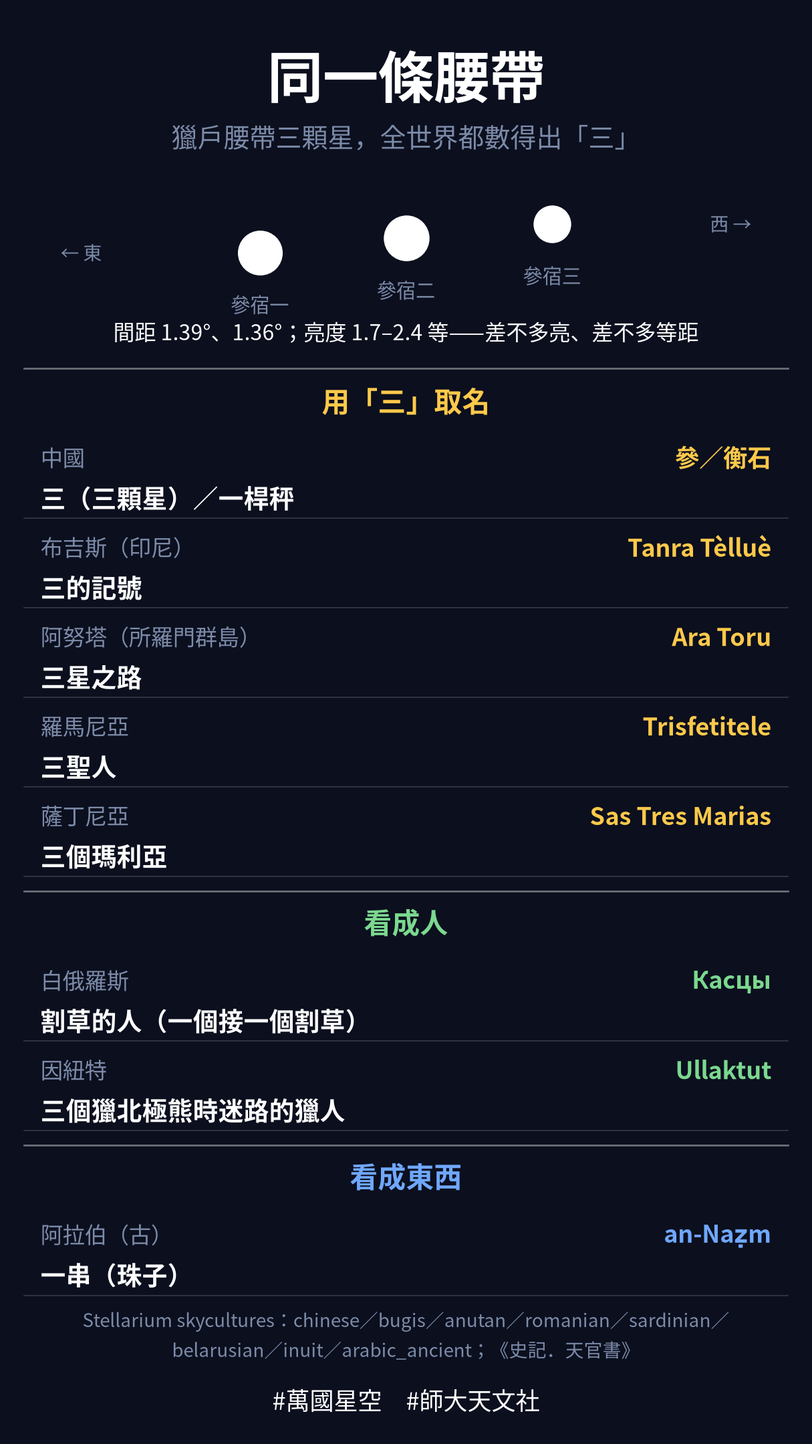
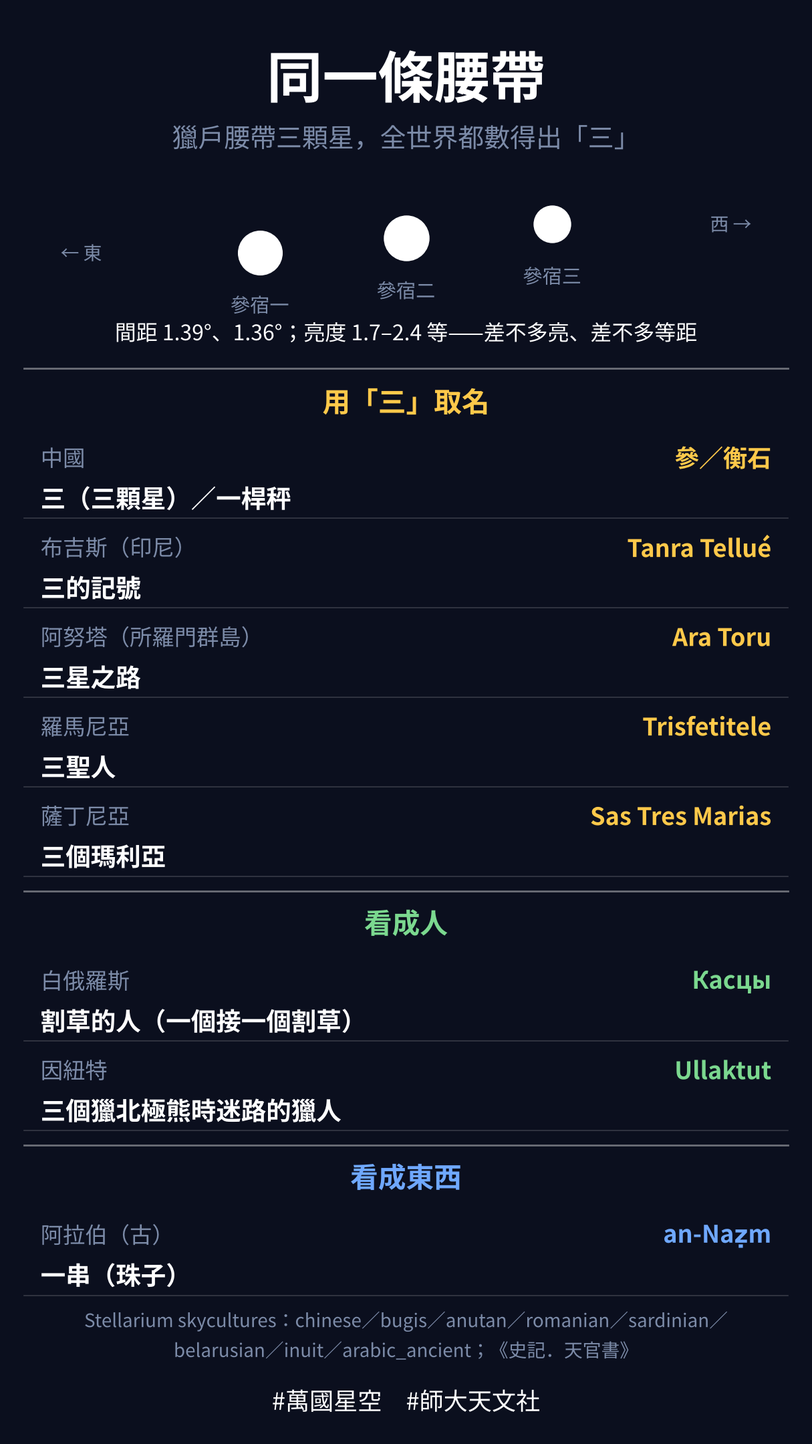
執行節目表修改建議（一）：標題 12、鉤子 21、A-32～X-07 排程重排、A-12 布吉斯拼法
- 節目表：12 集改標題、21 集改鉤子、A-24／A-25 素材名、A-31 備註；28 集狀態註明已更新
- 排程：Matariki 對上 6/25 國定假日，同時讓現代星座上下集相鄰——
  A-34 6/4、A-35 6/11、A-36 6/18、A-33 6/25、X-07 7/2；七集的承接、首尾預告、EP 編號、Caption 同步
  （日期改了的五集加註：星空對時 v1 時重算）
- A-22、A-31 檔名與標題改新名；鄰集承接與預告的舊標題一併更新
- A-12：Tanra Tèlluè → Tanra Tellué（Ammarell），逐字稿、標籤表、腳本、C-A12-05 圖卡重出

Claude-Session: https://claude.ai/code/session_01StZzE6tWpXcy8oYxpE6GNa

diff --git a/02_製作流程SOP/make_a12_v4.py b/02_製作流程SOP/make_a12_v4.py
@@ -543,7 +543,7 @@ def build():
                                                  來源備註="台灣通行星名"))
     json.dump({"ep": EP, "label_sets": [{"name": n, "items": it} for it, n in label_sets],
                "terms": terms,
-               "cross": [dict(原文="Tanra Tèlluè", 中譯="三的記號（布吉斯：獵戶腰帶）", 英文="Sign of Three",
+               "cross": [dict(原文="Tanra Tellué", 中譯="三的記號（布吉斯：獵戶腰帶）", 英文="Sign of Three",
                               顏色="white"),
                          dict(原文="Ara Toru", 中譯="三星之路（阿努塔）", 英文="Path of Three", 顏色="white"),
                          dict(原文="Trisfetitele", 中譯="三聖人（羅馬尼亞）", 英文="The Three Saints",

diff --git a/02_製作流程SOP/make_a12_diagrams.py b/02_製作流程SOP/make_a12_diagrams.py
@@ -401,7 +401,7 @@ def c04_today(ax):
 # ══════════════════════ C-A12-05 同一條腰帶（9:16 圖卡） ══════════════════════
 ROWS5 = [  # (文化, 原文, 中譯, 顏色)
     ("中國", "參／衡石", "三（三顆星）／一桿秤", AMBER),
-    ("布吉斯（印尼）", "Tanra Tèlluè", "三的記號", AMBER),
+    ("布吉斯（印尼）", "Tanra Tellué", "三的記號", AMBER),
     ("阿努塔（所羅門群島）", "Ara Toru", "三星之路", AMBER),
     ("羅馬尼亞", "Trisfetitele", "三聖人", AMBER),
     ("薩丁尼亞", "Sas Tres Marias", "三個瑪利亞", AMBER),

diff --git a/04_腳本庫/X-07-銀河環球一條河一條路一道縫-逐字稿-v0.md b/04_腳本庫/X-07-銀河環球一條河一條路一道縫-逐字稿-v0.md
@@ -1,14 +1,16 @@
-# X-07｜銀河環球：一條河、一條路、一道縫（萬國星空 EP45）・v0（初稿・待查核）
+# X-07｜銀河環球：一條河、一條路、一道縫（萬國星空 EP47）・v0（初稿・待查核）
+
+> ⚠ **排程已改（2026-10-31）**：本集改到 **2027/7/2** 播出（原 6/18），配合 A-33 Matariki 對上 6/25 國定假日、現代星座上下集相鄰。本稿的「星空對時」、觀星段與「今晚」的天象仍是舊日期，**v1 時依新日期用 PyEphem 重算**。
 
 | 項目 | 內容 |
 |---|---|
-| 發布 | **2027/6/18（五）20:00**（節目表日期；當晚滿月，見「星空對時」） |
+| 發布 | **2027/7/2（五）20:00**（10/31 排程調整，原 6/18；月相與天象 v1 重算） |
 | 時長 | **212 秒**（13 鏡；節目表原訂 180 秒，跨文化專題比照 X-01 275 秒、X-02 247 秒的深度集長度，仍在 170–240 秒內） |
 | 格式 | 長圖帶狀為主（沿銀河由人馬座捲到天鵝、仙后、英仙）；北盤（07 鏡蒙古、因紐特：北天銀河）＋南盤（08 鏡天蠍尾、09 鏡南天）各一段；概念圖 3 組（C-X07-01 箕斗之間＝渡口＋鴕鳥、C-X07-02 銀河的五種名字、C-X07-03 我們在盤子裡）；9:16 圖卡 2 張（銀河的名字、這幾晚往東南看） |
 | 來源 | Stellarium 舊版 `stellarium-skycultures-master`：chinese（Berglund／Sun Shuwei）、arabic_ancient（Khalid al-Ajaji）、blackfoot（Bucur 據 Miller；原典 McClintock 1910）、sami（Persson；Lundmark 1982）、siberian、mongolian（Lagain & Rousseau）、mandar／bugis（Bucur；原典 Rasyid, Hidayat & Orchiston 2021）、maori（Smale）、navajo（Berglund 據 Childrey）；新版 `stellarium-master/skycultures`：inuit、maori、khoi-san（SAAO, Suki Lock 等）、vanuatu_netwar（Ramík＋Tanna 長老）、lokono（Rybka 2018）、arabic_al-sufi、modern。原典：《詩經・小雅・大東》、《爾雅・釋天》、MacDonald《The Arctic Sky》1998 pp.91–92、McClintock《The Old North Trail》1910 pp.324、498、Afonso〈As Constelações Indígenas Brasileiras〉、Childrey《Star Trails Navajo》pp.33–40、70、Bleek & Lloyd《Specimens of Bushman Folklore》1911；天象 PyEphem 4.2.1 自算 |
 | 配音 | 逐字稿 **814 字**（中文字＋外文音節），平均 **3.84 字/秒**；最快一格 01 鏡 4.27、07 鏡 4.18（上限 4.5） |
 | 統一開頭 | 「同一片星空，全世界看見——一條河、一條路、一道縫。」（`_統一開頭/開頭規格.md` 原定「那條光帶——有一百個名字」；「一百」查不到，改成片中三個主題） |
-| 承接 | EP44（A-34）蘇菲之書（**結尾句待 A-34 定稿**；建議：「下週五，跟著蘇菲書裡那條『碰到銀河』的光帶，繞地球一圈」）→ **EP45 銀河環球：一條河、一條路、一道縫** → EP46（A-35）現代星座（上）：88 個星座誰說了算（6/25） |
+| 承接 | EP46（A-33）毛利 Matariki（結尾「下週五，我們沿著銀河繞地球一圈：有人看見一條河，有人看見一條路，也有人看見一道縫。」）→ **EP47 銀河環球：一條河、一條路、一道縫** → EP48（X-08）第一季完結：同一片星空的 27 種目光（7/9） |
 
 > ⚠ **節目表標題要改：「鹿皮之路」「瓦卡的航跡」都查不到是哪個文化的銀河名。**
 > - 「鹿皮之路」：Stellarium 新舊兩版、`_整理CSV`、社內 PDF 全掃，沒有任何文化把銀河叫鹿皮之路。最接近的是**納瓦荷**：黑神（Black God）從一個**斑點小鹿皮做的袋子**（"a pouch… made of the spotted skin of a fawn"，Childrey p.33）裡拿出水晶擺星星，最後一把撒成銀河 Yikáísdáhí「等待黎明的」（p.36、p.70）。但①那是「鹿皮袋」不是「鹿皮之路」；②**納瓦荷的星星故事只在冬天講**，6/18 發布不能講這段（A-16 已在一月講過）。本集只說名字、明講「故事冬天才說」（10 鏡）。
@@ -40,7 +42,7 @@
 
 | 鏡 | 秒數 | 旁白（逐字） | 字卡（畫面大字，可空） | 畫面構想（天區／星群／連線顏色／鏡頭動作） | 字/秒 |
 |---|---|---|---|---|---|
-| 01 | 0–15（15） | 上週那本一千多年前的星書，描述星星的位置，有時會寫一句「碰到銀河」。今晚，我們就沿著這條光帶繞地球一圈：同一片星空，全世界看見——一條河、一條路、一道縫。 | 一條河、一條路、一道縫 | 長圖：天鷹尾附近（蘇菲「碰到銀河」那顆星）起格，銀河層 #C9DAF5 調亮；Z 拉遠到整條夏季銀河（天蠍→天鵝）；開場字卡 | 4.27 |
+| 01 | 0–15（15） | 上週在紐西蘭，昴宿升起就是新年。今晚，我們沿著銀河繞地球一圈：同一片星空，全世界看見——一條河、一條路、一道縫。 | 一條河、一條路、一道縫 | 長圖：天鷹尾附近起格，銀河層 #C9DAF5 調亮；Z 拉遠到整條夏季銀河（天蠍→天鵝）；開場字卡 | 3.07 |
 | 02 | 15–32（17） | 先說河。中國人叫它天河、河漢。《詩經》寫：「維天有漢，監亦有光」——天上有一條漢水，抬頭看，也閃著光。《爾雅》說，箕宿和斗宿之間，是銀河的渡口；那裡，就在銀河中心旁邊。 | 維天有漢，監亦有光 | 長圖：S 沿銀河往人馬座捲；T 推近箕宿（琥珀 #FFC94A）＋斗宿（琥珀）；銀心位置打一個小白圈；迄格疊字卡「箕斗之間，漢津也」 | 3.71 |
 | 03 | 32–41（9） | 沿著它，中國人還擺了渡口天津、一條天江、一艘天船，和好幾座水池。 | 天津・天江・天船・咸池 | 長圖：S 從天江（藍 #6FA8FF，銀心正上方）一路往北捲到天津（藍）、再到英仙的天船（藍）、咸池（藍）；四組依序亮起 | 3.00 |
 | 04 | 41–56（15） | 更巧的是，箕宿這四顆星，在古阿拉伯是四隻鴕鳥，正走下河去喝水；斗宿那四顆，是喝飽了、正要離開的鴕鳥。中國人的渡口，就在牠們中間。 | 四隻下河、四隻離開 | 長圖：S 回到人馬座；T 推近；鴕鳥兩群（綠 #7BD88F）疊在箕宿、斗宿上；概念圖 C-X07-01「箕斗之間」（中國層→阿拉伯層→疊合層） | 3.67 |
@@ -52,7 +54,7 @@
 | 10 | 144–159（15） | 北美的納瓦荷人叫它「等待黎明的」。它怎麼來的，有一個故事；但納瓦荷的星星故事只在冬天講。一月我們講過了，現在是六月，這裡就不說。 | 故事，冬天才說 | 南盤→長圖（換組）；長圖只留銀河層、不開任何連線（刻意不畫納瓦荷星座）；字卡淡入淡出 | 3.67 |
 | 11 | 159–177（18） | 英文叫它 Milky Way，來自希臘神話：天后赫拉的奶，灑了一整片天。其實它是我們住的星系——十萬光年寬的一個大盤子，我們在盤子裡往盤面看，幾千億顆星，就疊成了一條河。 | γάλα＝奶→galaxy | 長圖：Z 拉遠到最大 fov；概念圖 C-X07-03「我們在盤子裡」（側視盤＋太陽位置＋視線方向；美宣另畫，不用外部圖） | 3.78 |
 | 12 | 177–201（24） | 夏天，我們正對著盤子的中心，在人馬座方向、兩萬七千光年外。今晚它快七點從東南方升起，半夜十二點在正南方最高；可惜今晚滿月，月亮就停在它旁邊。想看清楚，等六月底到七月上旬，月亮讓開，八點半以後找個暗的地方，往東南到南方看。 | 6/28–7/7，八點半後 | 長圖：T 推近人馬座、銀心白圈；疊滿月示意（6/18 20:00 月亮在蛇夫座、距銀心 5.5°）；之後疊 9:16 圖卡「這幾晚往東南看」（台北 6/28–7/7 21:00，可存圖） | 4.04 |
-| 13 | 201–212（11） | 下週五，回到我們最熟的那一套：八十八個星座。是誰，把天空切成八十八塊、一點空隙都不留？ | 下集｜88 個星座誰說了算 | 長圖：Z 拉遠；IAU 星座邊界示意層淡入（A-35 素材預覽）；端卡「下集見｜現代星座（上）：88 個星座誰說了算」＋追蹤 CTA | 3.36 |
+| 13 | 201–212（11） | 下週五，第一季最後一集：這一年，在同一片星空裡，我們看見了多少種目光？ | 下集｜第一季完結 | 長圖：Z 拉遠；端卡「下集見｜第一季完結：同一片星空的 27 種目光」＋追蹤 CTA | 2.73 |
 
 ---
 
@@ -162,7 +164,7 @@
 15. **銀心距離與直徑**：片中「兩萬七千光年」「十萬光年寬」「幾千億顆」是取整，請審稿確認可接受；首留言寫範圍。
 16. **滿月與銀心的角距 5.5°**：PyEphem 月亮位置為地心修正後的站心視位置（Observer 預設），請另用 Stellarium 對一次 6/18 20:00 畫面。
 17. **Boorong 年份**：Stellarium（舊）boorong 寫 Morieson 碩士論文 1966，應為 1996（本集未使用，順手記錄）。
-18. **「上週那本書……有時會寫碰到銀河」**：依 Stellarium arabic_al-sufi 的描述與條目；請 A-34 撰稿者確認 A-34 有沒有提到這點，若沒有，01 鏡改成「一千多年前，蘇菲描述星星的位置，有時會寫……」。
+18. **（10/31 排程調整後 01 鏡已改，不再接 A-34，本條作廢）「上週那本書……有時會寫碰到銀河」**：依 Stellarium arabic_al-sufi 的描述與條目；請 A-34 撰稿者確認 A-34 有沒有提到這點，若沒有，01 鏡改成「一千多年前，蘇菲描述星星的位置，有時會寫……」。
 
 ---
 
@@ -172,7 +174,7 @@
 > 更巧的是：箕宿那四顆星，古阿拉伯人說是四隻下河喝水的鴕鳥——而中國人說，箕斗之間就是銀河的渡口。
 > 還有人看見鳥的路、烏鴉的雪鞋腳印、一條大魚、一條龍，和一個女孩撒上天的柴火灰。
 > 📌 今晚滿月，月亮就停在銀河中心旁邊；想看清楚，6/28–7/7 晚上八點半以後往東南看（圖卡可存）。
-> EP46 下週五｜現代星座（上）：88 個星座誰說了算
+> EP48 下週五｜第一季完結：同一片星空的 27 種目光
 > #萬國星空 #師大天文社 #銀河 #夏季銀河 #天河 #跨文化 #天文 #星空
 
 ## 首留言（考據長文）

diff --git a/04_腳本庫/A-34-蘇菲之書一千多年前的星圖手稿-逐字稿-v0.md b/04_腳本庫/A-34-蘇菲之書一千多年前的星圖手稿-逐字稿-v0.md
@@ -1,14 +1,16 @@
-# A-34｜蘇菲之書：一千多年前的星圖手稿（萬國星空 EP44）・v0（初稿・待查核）
+# A-34｜蘇菲之書：一千多年前的星圖手稿（萬國星空 EP43）・v0（初稿・待查核）
+
+> ⚠ **排程已改（2026-10-31）**：本集改到 **2027/6/4** 播出（原 6/11），配合 A-33 Matariki 對上 6/25 國定假日、現代星座上下集相鄰。本稿的「星空對時」、觀星段與「今晚」的天象仍是舊日期，**v1 時依新日期用 PyEphem 重算**。
 
 | 項目 | 內容 |
 |---|---|
-| 發布 | **2027/06/11（五）20:00**（當晚 18:56 上弦） |
+| 發布 | **2027/06/04（五）20:00**（10/31 排程調整，原 6/11；月相 v1 重算） |
 | 時長 | **220 秒**（15 鏡頭；節目表原訂 180 秒） |
 | 格式 | Reels 9:16；**北盤**（台北 6/11 20:00→22:00：大角、角宿一、織女、牛郎；R）＋**長圖**（仙女座＋大魚＋M31、英仙座＋大陵五；Z）＋**手稿書影**（MS. Marsh 144／BnF Arabe 5036，授權見⚠）＋概念圖 5 組＋9:16 圖卡 1 張；杜勒 1515 星圖（公版） |
 | 來源 | Stellarium **arabic_al-sufi**（Khalid al-Ajaji；據十部抄本校勘，最古為 Bodleian MS. Marsh 144；圖像取自 BnF Arabe 5036 烏魯伯格抄本；文字與資料 CC BY-ND 4.0）；Kunitzsch〈The Astronomer Abu 'l-Ḥusayn al-Ṣūfī and his Book on the Constellations〉（《The Arabs and the Stars》XI，1989）、Kunitzsch〈A Medieval Reference to the Andromeda Nebula〉（ESO *The Messenger* 49，1987）；Hafez《Abd al-Rahman al-Sufi and his Book of the Fixed Stars》（博士論文，James Cook University，2010）；Bodleian／Fihrist 目錄（MS. Marsh 144）；Kunitzsch & Smart《A Dictionary of Modern Star Names》（星名字源，經 Stellarium 轉引）；天象全部 PyEphem 4.2.1 自算 |
 | 配音 | 逐字稿 **817 字**（中文字＋外文音節），平均 **3.71 字/秒**；最快一格 07 鏡 **4.05**、04 鏡 4.00（上限 4.5） |
 | 統一開頭 | 「同一片星空，蘇菲看見——兩層天空。」 |
-| 承接 | EP43（A-33）毛利 Matariki（結尾「下週五，我們翻開一本一千多年前的星圖書：波斯天文學家蘇菲，把希臘星座和阿拉伯星名，寫進了同一本書」）→ **EP44 蘇菲之書** → EP45（X-07）銀河環球：一條河、一條路、一道縫（2027/06/18；用 X-07 v0 查證後的標題，節目表原名「天河、鹿皮之路、瓦卡的航跡」，X-07 v0 已查出「鹿皮之路」「瓦卡的航跡」沒有出處。X-07 01 鏡開場是「上週那本一千多年前的星書，描述星星的位置，有時會寫一句『碰到銀河』」——本集 05 鏡已補上這句，15 鏡結尾接過去） |
+| 承接 | EP42（A-32）阿拉伯月站（結尾「下週五，我們翻開一本一千多年前的星圖書：波斯天文學家蘇菲，把希臘星座和阿拉伯星名，寫進了同一本書」）→ **EP43 蘇菲之書** → EP44（A-35）現代星座（上）：88 個星座誰說了算（2027/06/11） |
 
 > ⚠ **節目表的標題建議微調**：原「蘇菲之書：一千年前最美的星圖手稿」。①書寫成於**約 964 年**（Stellarium：shortly before 964），到 2027 年是 1,063 年——「一千多年前」比較準；「一千年前」只對**現存最古的抄本** MS. Marsh 144（題記伊斯蘭曆 400 年＝1009–10 年，距今約 1,017 年）成立。②「最美」是評價，片中不當事實講。建議：「**蘇菲之書：一千多年前的星圖手稿**」。
 > ⚠ **節目表的鉤子要改寫**：原「西元 964 年，一本書同時畫下希臘星座與貝都因傳統」。①964 是「約」；②蘇菲**畫**的主要是托勒密的 48 個希臘星座，阿拉伯本土的星名多半是**寫**在文字裡、一顆一顆對到希臘星上，只有少數阿拉伯星座（例如仙女座身上的大魚）一起畫進圖；③「貝都因傳統」是簡化——他用的是伊斯蘭以前阿拉伯人的星名，經語文學家的 anwāʾ 書保存下來。建議：「**約西元 964 年，一本書同時寫下希臘星座和阿拉伯沙漠的老星名**」。
@@ -29,7 +31,7 @@
 
 | 鏡 | 秒數 | 旁白（逐字） | 字卡（畫面大字，可空） | 畫面構想 | 字/秒 |
 |---|---|---|---|---|---|
-| **01** Z | 0–12s（12） | 上週在紐西蘭，昴宿一升起，就是新年。今晚翻開一本書：同一片星空，蘇菲看見——兩層天空。 | 同一片星空，／蘇菲看見——兩層天空。 | 手稿書影（MS. Marsh 144 或 BnF Arabe 5036，見授權 ⚠）淡入 → 北盤 fov 140（台北 6/11 20:00）；開場字卡 | 35 字／2.92 |
+| **01** Z | 0–12s（12） | 上週，月亮在阿拉伯的二十八間旅店裡搬家。今晚翻開一本書：同一片星空，蘇菲看見——兩層天空。 | 同一片星空，／蘇菲看見——兩層天空。 | 手稿書影（MS. Marsh 144 或 BnF Arabe 5036，見授權 ⚠）淡入 → 北盤 fov 140（台北 6/4 20:00）；開場字卡 | 38 字／3.17 |
 | **02** — | 12–31s（19） | 這本書叫《恆星圖像之書》，作者是波斯天文學家 al-Ṣūfī，歐洲人叫他 Azophi。大約西元九百六十四年，他把書獻給當時的君主 ʿAḍud al-Dawla——到今年，已經一千零六十多年。 | 約 964 年・蘇菲 | 定格疊概念圖 C-A34-01「蘇菲是誰」：903 生於 Rayy → 布伊王朝宮廷 → 約 964 年獻書 ʿAḍud al-Dawla → 986 卒；書名 كتاب صور الكواكب الثابتة | 67 字／3.53 |
 | **03** — | 31–46s（15） | 他拿八百多年前，托勒密寫下的四十八個希臘星座、一千多顆星，一顆一顆重新對著天空看：亮度不對的，他改；托勒密漏掉的星，他在書裡點出來。 | 48 星座・1,000 多顆星 | 定格疊概念圖 C-A34-02「托勒密 → 蘇菲」：《天文學大成》星表 → 逐星核對：改亮度、點出漏掉的星 | 58 字／3.87 |
 | **04** — | 46–59s（13） | 星星的位置，他全部往前推了十二度四十二分：因為歲差，八百多年來，整片星空沿著黃道慢慢挪動，他得替自己的年代重算一次。 | 經度＋12°42′ | 定格疊概念圖 C-A34-03「歲差」：黃道上整份星表平移 12°42′（137 → 964 年） | 52 字／4.00 |
@@ -43,7 +45,7 @@
 | **12** R | 164–179s（15） | 今晚八點，就能用蘇菲的眼睛看天：接近頭頂的大角，和正南方的角宿一，就是那兩位「高舉者」；巧的是，中文替它們取的名字，都有一個「角」字。 | 大角・角宿一 | 【換組】長圖→北盤 6/11 20:00：大角（近頭頂）、角宿一（正南）；標籤 阿拉伯名＋中文名（大角、角宿一的「角」字加亮） | 55 字／3.67 |
 | **13** R | 179–195s（16） | 東北方的織女星，和十點以後在正東方看得清楚的牛郎星——七夕的這一對——在阿拉伯是「俯衝的老鷹」和「飛翔的老鷹」；Vega、Altair 這兩個名字，就是從這裡來的。 | 兩隻老鷹 | 北盤逆時針 0°→−30.1°（20:00→22:00）：織女、牛郎升起；標籤 al-Nasr al-Wāqiʿ／al-Nasr al-Ṭāʾir＋Vega／Altair | 62 字／3.88 |
 | **14** — | 195–208s（13） | 想找蘇菲的那一小抹雲？要等後半夜：凌晨兩點到三點半，往東北方看。月亮已經下山，找個夠暗的地方，肉眼就看得到。 | 凌晨 2–3 點半・東北方 | 定格疊 9:16 圖卡 C-A34-05「用蘇菲的眼睛看天」（台北 6/11 20:00 大角、角宿一、織女；22:00 牛郎；6/12 02:00–03:30 仙女座星系東北方，可存圖） | 47 字／3.62 |
-| **15** — | 208–220s（12） | 下週五，我們沿著蘇菲筆下的那條銀河，繞地球一圈：有人看見一條河，有人看見一條路，也有人看見一道縫。 | 下集｜銀河環球 | 端卡（背景：北盤 22:00 的夏季銀河）＋追蹤 CTA | 43 字／3.58 |
+| **15** — | 208–220s（12） | 下週五，從蘇菲書裡的四十八個星座，走到今天的八十八個：是誰，把天空切成八十八塊、一點空隙都不留？ | 下集｜88 個星座誰說了算 | 長圖：Z 拉遠；IAU 星座邊界示意層淡入（A-35 素材預覽）；端卡「下集見｜現代星座（上）：88 個星座誰說了算」＋追蹤 CTA | 42 字／3.50 |
 
 > **01、06、12–13 在北盤圖層組上**（台北 6/11，北盤逆時針＝時間前進：20:00→22:00＝−30.1°）；**07、10 在大畫布（長圖）上**；其餘是定格的概念圖、手稿書影或杜勒星圖。06→07、10→12 經過換組頁（同框換組）。
 > **手稿書影**：01、08、09、10 要用的頁——Marsh 144 題記頁（p.419，Biblissima 目錄註記）、英仙座、仙女座＋大魚；天空 vs 天球儀的成對圖頁碼待美宣在 Digital Bodleian 上找。
@@ -144,7 +146,7 @@
 > 他還在仙女座旁邊記下「一小抹像雲的光斑」：那是 250 萬光年外的仙女座大星系，目前所知最早的紀錄。
 > 今晚八點：大角在頭頂附近、角宿一在正南；想找蘇菲的那一小抹雲，等凌晨兩點到三點半往東北看。
 > 📌 圖卡「用蘇菲的眼睛看天」可以存起來
-> EP45 下週五｜銀河環球：一條河、一條路、一道縫
+> EP44 下週五｜現代星座（上）：88 個星座誰說了算
 > #萬國星空 #師大天文社 #蘇菲 #alSufi #恆星圖像之書 #仙女座星系 #阿拉伯星名 #星圖 #天文
 
 ## 首留言（考據長文）

diff --git a/04_腳本庫/A-33-毛利Matariki星星升起就是新年-逐字稿-v0.md b/04_腳本庫/A-33-毛利Matariki星星升起就是新年-逐字稿-v0.md
@@ -1,14 +1,16 @@
-# A-33｜毛利 Matariki：星星升起就是新年（萬國星空 EP43）・v0（初稿・待查核）
+# A-33｜毛利 Matariki：星星升起就是新年（萬國星空 EP46）・v0（初稿・待查核）
+
+> ⚠ **排程已改（2026-10-31）**：本集改到 **2027/6/25（Matariki 國定假日）** 播出（原 6/4），配合 A-33 Matariki 對上 6/25 國定假日、現代星座上下集相鄰。本稿的「星空對時」、觀星段與「今晚」的天象仍是舊日期，**v1 時依新日期用 PyEphem 重算**。
 
 | 項目 | 內容 |
 |---|---|
-| 發布 | **2027/06/04（五）20:00**（隔天 6/5 03:40 新月；紐西蘭 Matariki 假日是三週後的 6/25） |
+| 發布 | **2027/06/25（五）20:00**＝紐西蘭 Matariki 國定假日（10/31 排程調整，原 6/4；天象 v1 重算） |
 | 時長 | **215 秒**（14 鏡頭；節目表原訂 180 秒） |
 | 格式 | Reels 9:16；**長圖帶狀**（昴宿特寫＋九星標籤層、獵戶參宿七、天蠍心宿二）＋概念圖 6 組（假日、挑日子、兩個季節、黎明重現、hautapu、北島示意）＋9:16 圖卡 2 張；不用盤（昴宿 dec +24°，在長圖帶內） |
 | 來源 | Stellarium **maori**（新版 `stellarium-master/skycultures`；Dan Smale；CC BY-SA 4.0；引 Best 1955、1959、Leather & Hall 2004、Orbell 1996 等）；Rangi Mātāmua《Matariki: The Star of the Year》（2017；據 Te Kōkau Himiona Te Pikikōtuku 與 Rāwiri Te Kōkau 1933 年完成的手稿）；紐西蘭政府 MBIE／employment.govt.nz（Matariki 假日）、Matariki Advisory Group《Matariki dates 2022 to 2052》；Te Papa（Puanga 與 Matariki；假日日期與 Tangaroa 期）；Te Ara（Matariki 預測年景、各地以 Puanga 為新年）；RNZ 2025（Che Wilson 談 Puanga）；天象全部 PyEphem 4.2.1 自算 |
 | 配音 | 逐字稿 **794 字**（中文字＋外文音節；毛利語按母音計音節），平均 **3.69 字/秒**；最快一格 08 鏡 **4.07**（上限 4.5） |
 | 統一開頭 | 「同一片星空，毛利人看見——新的一年。」 |
-| 承接 | EP42（A-32）阿拉伯月站（結尾「下週五，我們去紐西蘭：這一小串昴宿，在冬天的黎明重新升起，就是毛利人的新年——Matariki」）→ **EP43 毛利 Matariki：星星升起就是新年** → EP44（A-34）蘇菲之書（2027/06/11） |
+| 承接 | EP45（A-36）現代星座（下）（結尾「下週五，紐西蘭放 Matariki 假：昴宿在黎明升起，就是新年。」）→ **EP46 毛利 Matariki：星星升起就是新年**（6/25＝紐西蘭 Matariki 國定假日）→ EP47（X-07）銀河環球：一條河、一條路、一道縫（7/2） |
 
 > ⚠ **節目表的鉤子要改**：原「紐西蘭唯一的原住民國定假日，由星星決定日期」。①「唯一的原住民國定假日」講不清楚——政府的說法是「**第一個**承認毛利世界觀（Te Ao Māori）的國定假日」（employment.govt.nz；2022 年阿爾登總理）；②日期不是只看星星：Matariki Advisory Group 是在毛利月曆 Pipiri 這個月裡，取月相 **Tangaroa** 那幾晚（下弦前後）**最近的星期五**，2022–2052 的日期已寫進《Te Kāhui o Matariki Public Holiday Act 2022》。建議改成：「**紐西蘭第一個為毛利世界觀放的假：日期看星星，也看月亮**」。
 > ⚠ **節目表的備註要補日期**：「對齊當年 Matariki 公告週（6 月中下旬晨空）」——2027 年的假日是 **6/25（五）**，Te Papa 列的 Tangaroa 期是 6/27–30；昴宿在紐西蘭黎明重現約 **6/11–13**（PyEphem，見星空對時）。本集 6/4 播出，比假日早三週，片中當「預告」寫。**可選**：若想在假日當週播，可跟 A-35（6/25）對調，但 A-32 的結尾句與 A-34 的開場要跟著改。
@@ -29,7 +31,7 @@
 
 | 鏡 | 秒數 | 旁白（逐字） | 字卡（畫面大字，可空） | 畫面構想 | 字/秒 |
 |---|---|---|---|---|---|
-| **01** Z | 0–13s（13） | 上週，月亮在阿拉伯的二十八間旅店裡搬家。今晚飛到南半球的紐西蘭：同一片星空，毛利人看見——新的一年。 | 同一片星空，／毛利人看見——新的一年。 | 長圖 fov 40→12：從獵戶—金牛推近昴宿；Matariki 標籤；開場字卡 | 43 字／3.31 |
+| **01** Z | 0–13s（13） | 上週，我們數了課本沒教的星群。今天，紐西蘭放 Matariki 假：同一片星空，毛利人看見——新的一年。 | 同一片星空，／毛利人看見——新的一年。 | 長圖 fov 40→12：從獵戶—金牛推近昴宿；Matariki 標籤；開場字卡 | 36 字／2.73 |
 | **02** — | 13–31s（18） | 二〇二二年起，紐西蘭多了一個國定假日，叫 Matariki。政府說，這是第一個承認毛利世界觀的國定假日。它每年日期都不一樣：二〇二七年，是六月二十五號，星期五。 | 2027 Matariki 假日：6/25 | 定格疊概念圖 C-A33-01「Matariki 假日」：2022/6/24 第一次 → 2026/7/10 → 2027/6/25（五）；「第一個承認 Te Ao Māori 的國定假日」中譯；慶典照片美宣另尋授權圖 | 66 字／3.67 |
 | **03** Z | 31–44s（13） | 日期由天上決定。Matariki 就是昴宿：每年五月，它在黃昏沉進西方，躲進太陽的光裡；六月，再從冬天的黎明裡冒出來。 | Matariki＝昴宿 | 長圖 昴宿＋太陽位置標記：5/21 太陽離昴宿最近（約 4°）→ 6 月太陽往東移開；兩格 Match & Move | 47 字／3.62 |
 | **04** — | 44–61s（17） | 假日還要對上毛利的月曆：在 Pipiri 這個月，月亮走到叫 Tangaroa 的那幾晚，大約下弦月前後，再挑最近的星期五。今年的 Tangaroa，是六月二十七到三十號。 | 星星＋月亮＝放假日 | 定格疊概念圖 C-A33-02「怎麼挑日子」：Pipiri 月曆條（6/5 新月 → 6/27 下弦）、Tangaroa 6/27–30 標色、最近的星期五 6/25 圈起 | 63 字／3.71 |
@@ -42,7 +44,7 @@
 | **11** — | 153–167s（14） | 所以 Matariki 的儀式，有點像我們的除夕：天亮前生火煮食物，讓熱氣升上天，獻給這群星；念出離開的人的名字，也說出新年的願望。 | 天亮前的 hautapu | 定格疊概念圖 C-A33-06「hautapu」：地爐的熱氣升向昴宿的示意（不畫人物、不仿任何既有插畫）；若要用儀式照片，美宣另尋授權並確認可公開 | 53 字／3.79 |
 | **12** S | 167–185s（18） | 但不是每個部族都看昴宿。北島西岸的 Taranaki、Whanganui 等部族，新年看的是 Puanga——參宿七。有的地方被山擋住看不清昴宿；也有長老說，Puanga 更能預告西岸的天氣。 | 西岸看 Puanga | 長圖往左下（東南）捲到獵戶：參宿七 Puanga 標籤；右下小框：北島示意地圖（自繪，標 Taranaki、Whanganui、Rangitīkei） | 68 字／3.78 |
 | **13** Z | 185–203s（18） | 今晚八點，台灣看不到這兩位主角，它們都躲在太陽附近。往東南方低空看，紅色的心宿二已經升起，毛利人叫它 Rehua。想看 Matariki，就等六月中的清晨，跟紐西蘭一起迎新年。 | 6 月中・清晨・東北東 | 【硬切】長圖 天蠍：心宿二 Rehua 標籤；結束疊 9:16 圖卡 C-A33-07「這週抬頭看」（台北 6/4 20:00；6/7、6/14、6/25 清晨昴宿高度，可存圖） | 71 字／3.94 |
-| **14** — | 203–215s（12） | 下週五，我們翻開一本一千多年前的星圖書：波斯天文學家蘇菲，把希臘星座和阿拉伯星名，寫進了同一本書。 | 下集｜蘇菲之書 | 端卡（背景：長圖仙女座＋大魚連線；手稿書影等 A-34 授權確認後再放）＋追蹤 CTA | 44 字／3.67 |
+| **14** — | 203–215s（12） | 下週五，我們沿著銀河繞地球一圈：有人看見一條河，有人看見一條路，也有人看見一道縫。 | 下集｜銀河環球 | 端卡（背景：長圖夏季銀河）＋「下集見｜銀河環球：一條河、一條路、一道縫」＋追蹤 CTA | 36 字／3.00 |
 
 > **全片在大畫布（長圖）上**，01–11 都在金牛—獵戶一帶（昴宿特寫 fov 2.6–3），12 往東南捲到參宿七，13 硬切到天蠍；02、04、05、06、11 是定格疊概念圖。
 > **九星標籤層**：毛利原名（含長音符號）＋中文領域兩行；特寫時九顆星的白點照 V 星等畫大小，讓「最暗的兩顆」看得出來。
@@ -175,7 +177,7 @@
 > 毛利學者 Rangi Mātāmua 從 1933 年的家族手稿裡整理出九顆星：土裡的食物、樹上的食物、淡水、大海、雨、風、健康、願望，還有過去一年離開的人。
 > 台灣其實更早看到：6 月上旬起，清晨四點往東北東低空找，6 月中以後更好找。
 > 📌 圖卡「Matariki 九星小辭典」「這週抬頭看」可以存起來
-> EP44 下週五｜蘇菲之書：一千多年前的星圖手稿
+> EP47 下週五｜銀河環球：一條河、一條路、一道縫
 > #萬國星空 #師大天文社 #Matariki #毛利 #紐西蘭 #昴宿 #新年 #天文 #星空
 
 ## 首留言（考據長文）

diff --git a/04_腳本庫/A-12-白虎參宿與西羌的冬夜-逐字稿-v2.md b/04_腳本庫/A-12-白虎參宿與西羌的冬夜-逐字稿-v2.md
@@ -18,7 +18,7 @@
 
 > **資料來源挖掘重點（第〇節檢查表）**
 > 1. **本文化的鄰居**：Stellarium `chinese` 白虎一帶的星官，形成三個主題聚落——**南邊是糧倉與牧場**（天倉方倉、天囷圓倉、天廩存祭祀黍稷、天庾露天穀堆、芻藁草料、天苑天子園囿），**北邊是墳墓與刑罰**（大陵＝墓、積尸、卷舌主口舌讒言、礪石），**腳下有廁與屎**。對上五行「西方屬金、主秋」與《禮記．月令》孟秋同一個月「農乃登穀」又「戮有罪，嚴斷刑」——**整片白虎天區就是一個秋天：收成與肅殺**（本集論點之一）。
-> 2. **跨文化同星群**：掃全部 `_整理CSV`。**獵戶腰帶**：用「三」取名的有中國參、布吉斯 Tanra Tèlluè（三的記號）、阿努塔 Ara Toru（三星之路）、羅馬尼亞 Trisfetitele（三聖人）、薩丁尼亞 Sas Tres Marias（三個瑪利亞）；看成人的有白俄羅斯 Касцы（割草的人）、因紐特 Ullaktut（三個迷路的獵人）；阿拉伯 an-Naẓm（النظم，一串）。**昴宿**：羅馬尼亞 Cloșca cu pui（母雞帶小雞）、白俄羅斯 Куркі（母雞）——對上二十八禽「昴日雞」。**大陵五**＝Algol（西方：梅杜莎的頭）——東西方都在這裡看見死亡。
+> 2. **跨文化同星群**：掃全部 `_整理CSV`。**獵戶腰帶**：用「三」取名的有中國參、布吉斯 Tanra Tellué（三的記號）、阿努塔 Ara Toru（三星之路）、羅馬尼亞 Trisfetitele（三聖人）、薩丁尼亞 Sas Tres Marias（三個瑪利亞）；看成人的有白俄羅斯 Касцы（割草的人）、因紐特 Ullaktut（三個迷路的獵人）；阿拉伯 an-Naẓm（النظم，一串）。**昴宿**：羅馬尼亞 Cloșca cu pui（母雞帶小雞）、白俄羅斯 Куркі（母雞）——對上二十八禽「昴日雞」。**大陵五**＝Algol（西方：梅杜莎的頭）——東西方都在這裡看見死亡。
 > 3. **恆星物理／幾何**：腰帶三星間距 1.39°、1.36°，星等 1.69–2.41（自算）；昴宿與心宿二赤經差 190.5°——「雞」與「蠍子」正好在天空兩頭；台北看參宿三星與心宿二同時在地平線上，一天約 13 分鐘、兩邊都只離地平線兩三度（最高不到 4°；PyEphem，含折射）；蟹狀星雲 M1 在天關（ζ Tau）西北 1.13°。
 > 4. **文獻**：《史記．天官書》《晉書》《隋書》《宋史》天文志、《左傳》（含杜預注）已由事實查核代理對 kanripo 四庫／四部叢刊本逐字核對；《宋會要》《正義》《月令》《後漢書》以多個檢索摘要交叉比對（見考據備忘）。
 > 5. **原始出處看到底**：Stellarium 的翻譯檔又有一批錯——白俄羅斯 Касцы 翻成「割草機」（原文說的是一個接一個割草的人）、阿努塔 Ara Toru 翻成「三人之路」（ara 路、toru 三，沒有人）、曼達 Bittoéng Tallu-tallu 翻成「三星級組」、薩丁尼亞「三 Marias」、阿拉伯 an-Naẓm 翻成「字符串」；`_整理CSV` 已修正。另：曼達那組其實有六顆（腰帶＋獵戶盾牌三顆），不是純腰帶，片中不用。
@@ -96,7 +96,7 @@
 📚 **秋天的天區**：天倉（倉穀所藏）、天囷（倉廩之屬）、天廩（主蓄黍稷，以供饗祀）、天苑（天子之苑囿，養獸之所）、卷舌（主口語，以知佞讒）、積尸（大陵中一星）——《晉書．天文志》；大陵「陵者，墓也」、芻藁「以供牛馬之食」——《隋書．天文志》；天庾「主露積」、礪石「主百工磨礪鋒刀」——《宋史．天文志》；廁、屎＝《史記．天官書》「天廁」「天矢」。（天囷「圓倉」取《說文》「囷，廩之圜者」）《禮記．月令》孟秋之月：「農乃登穀」，又「戮有罪，嚴斷刑」。
 📚 **天關客星**：《宋會要》「至和元年五月，晨出東方，守天關，晝見如太白，芒角四出，色赤白，凡見二十三日。」《宋史》「至和元年五月己丑，出天關東南可數寸，歲餘稍沒。」（1054 年 7 月 4 日）。今天的蟹狀星雲 M1 在天關的西北約 1°，史書寫「東南」，這個方位差學界仍在討論。
 📚 **白虎從哪裡來**：河南濮陽西水坡 M45（1987 年發掘，距今約 6,400 年）墓主東側蚌塑龍、西側蚌塑虎。「白虎＝西羌」是師大天文社〈中國星座〉簡報的考據觀點：羌（羊＋人）、姜（羊＋女）同源（章太炎、傅斯年等；《後漢書．西羌傳》說西羌「姜姓之別也」），周人始祖母姜嫄，姬、姜長期通婚（太姜、邑姜）；彝族不少學者認為源自古羌，有的支系自稱「羅羅」，劉堯漢等解釋為「虎族」並提出「虎宇宙觀」。這是推論，古書沒有直接寫；另一說見《後漢書．南蠻西南夷列傳》：巴人祖先廩君「死，魂魄世為白虎」。
-📚 **跨文化的腰帶**：布吉斯 Tanra Tèlluè（三的記號）、阿努塔 Ara Toru（三星之路）、羅馬尼亞 Trisfetitele（三聖人）、薩丁尼亞 Sas Tres Marias（三個瑪利亞）、白俄羅斯 Касцы（割草的人）、因紐特 Ullaktut（三個獵北極熊時迷路的獵人）、阿拉伯 an-Naẓm（النظم，一串）。昴宿：羅馬尼亞 Cloșca cu pui（母雞帶小雞）。（Stellarium skycultures）
+📚 **跨文化的腰帶**：布吉斯 Tanra Tellué（三的記號）、阿努塔 Ara Toru（三星之路）、羅馬尼亞 Trisfetitele（三聖人）、薩丁尼亞 Sas Tres Marias（三個瑪利亞）、白俄羅斯 Касцы（割草的人）、因紐特 Ullaktut（三個獵北極熊時迷路的獵人）、阿拉伯 an-Naẓm（النظم，一串）。昴宿：羅馬尼亞 Cloșca cu pui（母雞帶小雞）。（Stellarium skycultures）
 ※ Stellarium 的中文翻譯把 Касцы 翻成「割草機」、Ara Toru 翻成「三人之路」、an-Naẓm 翻成「字符串」，本集已改正。
 
 ## 考據備忘（⚠＝上線前建議再核）
@@ -154,5 +154,5 @@
 - 天囷（ㄑㄩㄣ）、天廩（ㄌㄧㄣˇ）、天庾（ㄩˇ）、芻藁（ㄔㄨˊ ㄍㄠˇ）、天苑（ㄩㄢˋ）、礪（ㄌㄧˋ）石、卷（ㄐㄩㄢˇ）舌、廁（ㄘㄜˋ）。
 - 閼（ㄜˋ）伯、實沈（ㄔㄣˊ）、姜嫄（ㄩㄢˊ）、羌（ㄑㄧㄤ）、濮（ㄆㄨˊ）陽、廩君。
 - 月離于畢，俾（ㄅㄧˇ）滂（ㄆㄤ）沱（ㄊㄨㄛˊ）矣。
-- 外文：Tanra Tèlluè（湯-拉 帖-魯-欸）、Ara Toru（阿-拉 托-魯）、Trisfetitele（特里斯-費-蒂-特-雷）——片中只唸中譯也可以。
+- 外文：Tanra Tellué（湯-拉 帖-魯-欸）、Ara Toru（阿-拉 托-魯）、Trisfetitele（特里斯-費-蒂-特-雷）——片中只唸中譯也可以。
 - 08 鏡「底下那顆就叫『屎』」是本集的笑點，停半拍；12 鏡「這是推論，不是定論」放慢。

diff --git a/04_腳本庫/A-32-阿拉伯月站月亮每晚的下榻處-逐字稿-v0.md b/04_腳本庫/A-32-阿拉伯月站月亮每晚的下榻處-逐字稿-v0.md
@@ -8,7 +8,7 @@
 | 來源 | Stellarium **arabic_lunar_stations**（舊版 `stellarium-skycultures-master`；Khalid al-Ajaji；CC BY-ND 4.0）＋**arabic_indigenous**（新版 `stellarium-master/skycultures`，同作者；lunar_system 28 站，從昴宿起算）＋**arabic_al-sufi**（lunar_system 從白羊座第一星起算）；Ibn Qutayba《Kitāb al-Anwāʾ》、al-Ṣūfī 的站星認定（皆經 Stellarium description 轉述）；《古蘭經》10:5、36:39（阿拉伯原文；馬堅中譯）；Kunitzsch & Smart《A Dictionary of Modern Star Names》（經 Stellarium `common_names.tab` 轉引）；IAU WGSN 正式星名（`common_names.tab` 來源欄 12）；Varisco（印度經薩珊波斯傳入說）；天象全部 PyEphem 4.2.1 自算；行星星等 Mallama & Hilton 2018 |
 | 配音 | 逐字稿 **884 字**（中文字＋外文音節），平均 **3.81 字/秒**；最快一格 01、02、13 鏡 **4.00**（上限 4.5） |
 | 統一開頭 | 「同一片星空，阿拉伯人看見——月亮每晚住的旅店。」 |
-| 承接 | EP41（X-06）星星導航總集：在羅盤上船以前（X-06 v0 的新標題；結尾「下週五，跟著 Ibn Mājid 回到月亮的路上：阿拉伯人替月亮蓋的二十八間旅店」）→ **EP42 阿拉伯月站：月亮每晚的下榻處** → EP43（A-33）毛利 Matariki：星星升起就是新年（2027/06/04） |
+| 承接 | EP41（X-06）星星導航總集：在羅盤上船以前（X-06 v0 的新標題；結尾「下週五，跟著 Ibn Mājid 回到月亮的路上：阿拉伯人替月亮蓋的二十八間旅店」）→ **EP42 阿拉伯月站：月亮每晚的下榻處** → EP43（A-34）蘇菲之書：一千多年前的星圖手稿（2027/06/04；10/31 排程調整） |
 
 > ⚠ **節目表的標題建議改一個詞**：原「阿拉伯月宿：新月每晚的下榻處」。「新月」（朔）那一兩晚月亮根本看不見；每晚換一站的是「月亮」（各種月相都算）。建議改「**阿拉伯月站：月亮每晚的下榻處**」（「月宿」也可，但片中用「月站」，與 A-06、A-13 一致）。若想保留「新月」的詩意，13 鏡有真正的第一彎眉月（hilāl）可接。
 > ⚠ **節目表的鉤子不成立**：原「Manazil——伊斯蘭曆法的 28 站」。①月站在伊斯蘭以前就有（Stellarium description：pre-Islamic；目前最早的完整名單是 Ibn Ḥabīb〔卒 852〕轉述 Mālik ibn Anas〔卒 795〕）；②民間主要拿它配**太陽年**的 anwāʾ 星曆（A-13 已講）；③伊斯蘭曆是純陰曆，月份傳統上看日落後第一次見到的眉月 hilāl（沙烏地 Umm al-Qura 官方曆改用計算），**不靠月站**。建議改成：「**Manāzil：月亮的 28 間旅店——一半以上的名字，還寫在今天的星圖上**」。
@@ -44,7 +44,7 @@
 | **12** S | 173–190s（17） | 今晚八點抬頭：西方高處，獅子座的軒轅十四兩旁，一邊木星、一邊火星——都住在阿拉伯大獅子的頭上；南南東是角宿一；東南方，天秤的兩隻螯、天蠍的紅心，正在升起。 | 今晚八點抬頭看 | 【硬切】長圖＋行星標記層（5/28 20:00）：右（西）獅子頭：軒轅十四、木星、火星 → 往左捲到角宿一、天秤兩螯、心宿二；結束疊 9:16 圖卡 C-A32-06「今晚八點抬頭看」（台北 5/28 20:00，可存圖） | 65 字／3.82 |
 | **13** S | 190–207s（17） | 想看月亮自己搬家？下週六凌晨是新月。六月六號星期天，是沙烏地官方曆的伊斯蘭新年；那天傍晚七點，往西北偏西的低空看，第一彎細細的眉月，就住在雙子座的腳邊。 | 6/6 傍晚 第一彎眉月 | 長圖 雙子座腳邊：月亮標記 6/6 19:10（4% 細眉月，離 μ Gem 4°）；右下小框：西北偏西地平線示意（高 14°、方位 292°） | 68 字／4.00 |
 | **14** R | 207–222s（15） | 月站這個系列就到這裡：中國的二十八宿、印度的 Nakṣatra、日本古墳裡的星宿、沙漠的星曆，還有今晚的月亮旅店——同一條月亮的路，好幾種住法。 | 同一條路，好幾種住法 | 【換組】長圖→北盤：28 站（琥珀）＋二十八宿（黃）兩環，盤逆時針 0°→−30°；結束疊 9:16 圖卡 C-A32-07「月站宇宙」（A-05 日本、A-06 四文明、A-13 沙漠星曆、A-32 月亮旅店，可存圖） | 57 字／3.80 |
-| **15** Z | 222–232s（10） | 下週五，我們去紐西蘭：這一小串昴宿，在冬天的黎明重新升起，就是毛利人的新年——Matariki。 | 下集｜毛利 Matariki | 【換組】北盤→長圖；推近昴宿；端卡「下集見｜毛利 Matariki：星星升起就是新年」＋追蹤 CTA | 37 字／3.70 |
+| **15** Z | 222–232s（10） | 下週五，我們翻開一本一千多年前的星圖書：波斯天文學家蘇菲，把希臘星座和阿拉伯星名，寫進了同一本書。 | 下集｜蘇菲之書 | 【換組】北盤→長圖；仙女座＋大魚連線；端卡「下集見｜蘇菲之書：一千多年前的星圖手稿」＋追蹤 CTA | 44 字／4.40 |
 
 > **01–13、15 在大畫布（長圖）上；14 在北盤圖層組上**（全環總覽，北盤逆時針＝時間前進）。08、10、12 有硬切（畢宿 → 天蠍尾、飛馬 → 天蠍、寶瓶 → 獅子），其餘 Match & Move。
 > **長圖方向**：東在左。06–07 由天秤一路往左（東）捲到飛馬，就是月亮往後幾晚要走的路；12 鏡從右（西）的獅子捲回左邊的天蠍，對應今晚八點從西往東南看。
@@ -187,7 +187,7 @@
 > 旅店的招牌，後來掛上了今天的星圖：Aldebaran「跟在後面的」、Shaula「翹起的尾巴」、Zubenelgenubi「南邊的螯」——二十八間裡，超過一半的名字還在。
 > 這週末清晨，下弦月從「帳篷的吉星」搬進「水桶的前口」；6/6 傍晚，第一彎眉月出現在西北偏西——那天是伊斯蘭新年。
 > 📌 圖卡「星圖上的月站」「今晚八點抬頭看」「月站宇宙」可以存起來
-> EP43 下週五｜毛利 Matariki：星星升起就是新年
+> EP43 下週五｜蘇菲之書：一千多年前的星圖手稿
 > #萬國星空 #師大天文社 #月站 #Manazil #二十八宿 #阿拉伯星名 #古蘭經 #木星 #火星 #天文
 
 ## 首留言（考據長文）

diff --git a/04_腳本庫/A-35-現代星座上88個星座誰說了算-逐字稿-v0.md b/04_腳本庫/A-35-現代星座上88個星座誰說了算-逐字稿-v0.md
@@ -1,14 +1,16 @@
-# A-35｜現代星座（上）：88 個星座誰說了算（萬國星空 EP46）・v0（初稿・待查核）
+# A-35｜現代星座（上）：88 個星座誰說了算（萬國星空 EP44）・v0（初稿・待查核）
+
+> ⚠ **排程已改（2026-10-31）**：本集改到 **2027/6/11** 播出（原 6/25），配合 A-33 Matariki 對上 6/25 國定假日、現代星座上下集相鄰。本稿的「星空對時」、觀星段與「今晚」的天象仍是舊日期，**v1 時依新日期用 PyEphem 重算**。
 
 | 項目 | 內容 |
 |---|---|
-| 發布 | **2027/6/25（五）20:00** |
+| 發布 | **2027/6/11（五）20:00**（10/31 排程調整，原 6/25；天象 v1 重算） |
 | 時長 | **214 秒**（15 鏡；節目表 180 秒；在 170–240 秒內） |
 | 格式 | 長圖帶狀為主（全天 88 星座邊界層＋連線層輪替）；南盤一段（04、06 鏡：Keyser–de Houtman 與 Lacaille 的南天新星座）；北盤一段（12 鏡：台北、鵝鑾鼻的南方地平線）；概念圖 3 組（C-A35-01 88 個星座從哪來〔年代堆疊條〕、C-A35-02 邊界是一塊地〔長蛇 vs 南十字面積〕、C-A35-03 巨蛇被切成兩塊）；9:16 圖卡 2 張（88 星座出身表、今晚的巨蛇與盾牌） |
 | 來源 | Stellarium 新版 `stellarium-master/skycultures/modern_iau`（Stellarium team；88 星座連線＝Sky & Telescope／IAU 官網版）＋`stellarium-master/data/constellations_spans.dat`（Delporte 1930 邊界、B1875.0 座標表，本稿拿它算面積與台灣可見度）；舊版 `western`、`ruelle`；《晉書・天文志》（陳卓 283 官）；Delporte 1930《Délimitation scientifique des constellations》（Cambridge UP）；Paolantonio & García 2019（Uranometría Argentina 與星座邊界）；天象 PyEphem 4.2.1 自算 |
 | 配音 | 逐字稿 **844 字**（中文字＋外文音節；UMa、Ori 照字母唸算 3 音節），平均 **3.94 字/秒**；最快一格 08 鏡 4.14、13 鏡 4.13（上限 4.5） |
 | 統一開頭 | 「同一片星空，天文學家把它——切成八十八塊。」（`開頭規格.md` 原定「1928 年被——瓜分完畢」；年份與動詞見下方 ⚠） |
-| 承接 | EP45（X-07）銀河環球（結尾「下週五，回到我們最熟的那一套：八十八個星座。是誰，把天空切成八十八塊、一點空隙都不留？」）→ **EP46 現代星座（上）：88 個星座誰說了算** → EP47（A-36）現代星座（下）：課本沒教的星群（7/2） |
+| 承接 | EP43（A-34）蘇菲之書（結尾「下週五，從蘇菲書裡的四十八個星座，走到今天的八十八個：是誰，把天空切成八十八塊、一點空隙都不留？」）→ **EP44 現代星座（上）：88 個星座誰說了算** → EP45（A-36）現代星座（下）：課本沒教的星群（6/18） |
 
 > ⚠ **節目表鉤子要改**：「1928 年，一群天文學家把天空瓜分完畢」——
 > - **1922** 年 IAU 第一屆大會（羅馬）才定下 88 個星座的**名單與縮寫**；**1925** 年委託比利時天文學家 **Eugène Delporte** 畫邊界；**1928** 年大會（萊登）**通過**邊界；**1930** 年由劍橋大學出版社出版《Délimitation scientifique des constellations》＋星圖集。所以「1928 年瓜分完畢」只對「通過」那一步；「一群天文學家」實際上是 Delporte 主筆、IAU 第 3 委員會審定，南天直接採用 Gould《Uranometria Argentina》（1879）已畫好的邊界。
@@ -33,7 +35,7 @@
 
 | 鏡 | 秒數 | 旁白（逐字） | 字卡（畫面大字，可空） | 畫面構想（天區／星群／連線顏色／鏡頭動作） | 字/秒 |
 |---|---|---|---|---|---|
-| 01 | 0–10（10） | 上週，一條銀河有二十幾個名字；今天，回到課本上那一套。同一片星空，天文學家把它——切成八十八塊。 | 切成 88 塊 | 長圖：全天 Z 拉遠；銀河層淡出、IAU 邊界層（白細線）淡入；開場字卡 | 4.00 |
+| 01 | 0–10（10） | 上週，蘇菲把希臘星座畫進一本書；今天，回到課本上那一套。同一片星空，天文學家把它——切成八十八塊。 | 切成 88 塊 | 長圖：全天 Z 拉遠；銀河層淡出、IAU 邊界層（白細線）淡入；開場字卡 | 4.10 |
 | 02 | 10–25（15） | 這套星座的老底子，是將近一千九百年前，亞歷山卓的托勒密，在《天文學大成》裡列的四十八個星座、一千多顆星。兩週前的蘇菲，用的也是這四十八個。 | 托勒密：48 座 | 長圖：只亮托勒密 48 座的連線（琥珀 #FFC94A）；概念圖 C-A35-01 第一層（約 150 年：48） | 4.00 |
 | 03 | 25–34（9） | 可是托勒密看不到南天最南的那一塊；星座和星座之間，也留著不少沒人管的暗星。 | 南天一片空白 | 長圖→南盤（換組）；南盤只有托勒密連線，南天極周圍一大片空白（亞歷山卓 31°N 看不到的赤緯 −59° 以南加深色罩） | 3.78 |
 | 04 | 34–52（18） | 十六世紀末，荷蘭船隊開到南半球，領航員 Keyser 和 de Houtman 記下南天的星，Plancius 把它們做成十二個新星座：孔雀、杜鵑、天燕、變色龍、飛魚……一六〇三年，Bayer 的星圖把它們印了出來。 | 南洋的 12 隻鳥獸 | 南盤：12 個新星座連線（綠 #7BD88F）依序亮起；R 慢轉；概念圖 C-A35-01 第二層（1597：+12） | 3.89 |
@@ -142,7 +144,7 @@
 > 從此星座是「一塊地」：最大的長蛇座是最小的南十字座的 19 倍，而巨蛇座被切成兩塊。
 > 📌 台北永遠看不到的星座有 4 個——你猜得到是哪幾個嗎？（答案在圖卡）
 > 今晚 9 點往南：頭頂偏南是巨蛇的頭，東南是蛇尾和小小的盾牌座。
-> EP47 下週五｜現代星座（下）：課本沒教的星群
+> EP45 下週五｜現代星座（下）：課本沒教的星群
 > #萬國星空 #師大天文社 #88星座 #星座 #IAU #天文 #星空
 
 ## 首留言（考據長文）

diff --git a/04_腳本庫/A-36-現代星座下課本沒教的星群Asterisms-逐字稿-v0.md b/04_腳本庫/A-36-現代星座下課本沒教的星群Asterisms-逐字稿-v0.md
@@ -1,14 +1,16 @@
-# A-36｜現代星座（下）：課本沒教的星群 Asterisms（萬國星空 EP47）・v0（初稿・待查核）
+# A-36｜現代星座（下）：課本沒教的星群 Asterisms（萬國星空 EP45）・v0（初稿・待查核）
+
+> ⚠ **排程已改（2026-10-31）**：本集改到 **2027/6/18** 播出（原 7/2），配合 A-33 Matariki 對上 6/25 國定假日、現代星座上下集相鄰。本稿的「星空對時」、觀星段與「今晚」的天象仍是舊日期，**v1 時依新日期用 PyEphem 重算**。
 
 | 項目 | 內容 |
 |---|---|
-| 發布 | **2027/7/2（五）20:00**（7/4 新月，整晚無月） |
+| 發布 | **2027/6/18（五）20:00**（10/31 排程調整，原 7/2；月相 v1 重算） |
 | 時長 | **181 秒**（13 鏡；節目表 180 秒） |
 | 格式 | 北盤主秀（台北 7/2 21:00 的全天：東方夏季大三角、西北北斗、西方春季大曲線、東南茶壺）＋長圖帶狀（飛馬大四邊形、茶壺、衣架特寫）；概念圖 2 組（C-A36-01 星座 vs 星群〔大熊座邊界裡的北斗〕、C-A36-02 夏季大三角的真實距離〔側視〕）；9:16 圖卡 2 張（七月晚上的五個星群、星群也有國籍：西方／印度／阿拉伯） |
 | 來源 | `07_資料來源/_整理CSV/02_星群Asterisms.csv`（Stellarium 新版 modern 星群 78 個＋指星輔助線 11 條、indian 28 個、arabic_al-sufi 139 個；共 256 個 ID、320 筆畫）；Stellarium 新版 modern_iau（IAU-CSN 星名 534 筆、星座連線＝Sky & Telescope／IAU 版）、chinese；IAU 新聞稿 iau1603（2016 年 227 個星名）、iau1707（2017 年再加 86 個）；NameExoWorlds 2019（Formosa／Sazum）；《史記・天官書》；天象 PyEphem 4.2.1 自算 |
 | 配音 | 逐字稿 **702 字**（中文字＋外文音節），平均 **3.88 字/秒**；最快一格 01 鏡 4.09、06 鏡 4.07（上限 4.5） |
 | 統一開頭 | 「同一片星空，北斗七星——其實不是星座。」（`開頭規格.md` 原定句，保留） |
-| 承接 | EP46（A-35）現代星座（上）（結尾「下週五，下集：北斗七星其實不是星座？課本沒教的星群。」）→ **EP47 現代星座（下）：課本沒教的星群** → EP48（X-08）第一季完結回顧（7/9） |
+| 承接 | EP44（A-35）現代星座（上）（結尾「下週五，下集：北斗七星其實不是星座？課本沒教的星群。」）→ **EP45 現代星座（下）：課本沒教的星群** → EP46（A-33）毛利 Matariki：星星升起就是新年（6/25，紐西蘭 Matariki 國定假日） |
 
 > ⚠ **節目表鉤子保留但要補一句**：「北斗七星其實不是星座？」在 IAU 的規則下成立（北斗是大熊座裡的星群）；但**在中國，北斗本來就是正式星官**（《史記・天官書》「北斗七星」），所以片中 03 鏡明講「算不算星座，要看用誰的規則」，避免變成「中國人搞錯了」的語氣。
 >
@@ -44,7 +46,7 @@
 | 10 | 123–138（15） | 星群沒有官方名字，但星星有。二〇一六年起，IAU 成立星名工作小組，開始正式核定星名；第二年，就收進了中國、澳洲原住民、波里尼西亞的名字。 | 2016：IAU 替星星命名 | 長圖：Z 拉遠；IAU-CSN 星名標籤層逐批淡入（2016 一批、2017 一批），中國名（天關 Tianguan 等）用青色標 | 3.87 |
 | 11 | 138–153（15） | 其中有一顆和台灣有關：二〇一九年，獅子座一顆帶著行星的恆星，被命名為 Formosa；它的行星叫 Sazum——邵族語的「水」，也是日月潭一帶的老地名。 | Formosa・Sazum | 長圖：S 捲到獅子座；T 推近 HIP 56508（V 6.4，加光暈標記）；日月潭照片需美宣另尋授權圖（或只用文字） | 3.73 |
 | 12 | 153–173（20） | 今晚九點：東方的夏季大三角正在升高；西北方，北斗斗柄朝上，順著斗柄的弧線拉過去，是大角、再到角宿一，春天的大曲線還掛在西邊；東南方，茶壺剛浮出地平線。後天新月，這幾晚都很暗。 | 今晚 9 點・後天新月 | 長圖→北盤（換組）；北盤轉到台北 7/2 21:00；四個星群依序亮（藍、琥珀、綠、琥珀）；之後疊 9:16 圖卡「七月晚上的五個星群」（可存圖） | 3.75 |
-| 13 | 173–181（8） | 下週五，第一季最後一集：這一年，在同一片星空裡，我們看見了多少種目光？ | 下集｜第一季完結 | 北盤 R 快轉一圈（Match & Move 每頁 30°）；端卡「下集見｜第一季完結：同一片星空的 27 種目光」（標題依 X-08 定稿）＋追蹤 CTA | 3.75 |
+| 13 | 173–181（8） | 下週五，紐西蘭放 Matariki 假：昴宿在黎明升起，就是新年。 | 下集｜毛利 Matariki | 北盤 R 快轉一圈（Match & Move 每頁 30°）；端卡「下集見｜毛利 Matariki：星星升起就是新年」＋追蹤 CTA | 2.56 |
 
 ---
 
@@ -130,7 +132,7 @@
 > 夏季大三角的三顆星，英文名全是阿拉伯文：Vega「俯衝的鷹」、Altair「飛翔的鷹」、Deneb「母雞的尾巴」；人馬座的茶壺把手，就是中國的南斗六星。
 > 還有一顆星叫 Formosa，它的行星叫 Sazum——邵族語的「水」。
 > 📌 今晚九點：東方夏季大三角、西北北斗、東南茶壺；後天新月，這幾晚都很暗（圖卡可存）。
-> EP48 下週五｜第一季完結回顧
+> EP46 下週五｜毛利 Matariki：星星升起就是新年
 > #萬國星空 #師大天文社 #星群 #夏季大三角 #北斗七星 #茶壺 #天文 #星空
 
 ## 首留言（考據長文）

diff --git a/04_腳本庫/A-23-羅馬尼亞牧羊人的星空農場-逐字稿-v0.md b/04_腳本庫/A-23-羅馬尼亞牧羊人的星空農場-逐字稿-v0.md
@@ -8,7 +8,7 @@
 | 來源 | Stellarium **romanian**（Mircea Lite 代表 Baia Mare 天文館提交；「Traditional Romanian Constellations」計畫 2012–2013，連線與文字 Radu Lodina、Ovidiu Ignat，插畫 Zamfir Somcutean，Susanne M. Hoffmann 改編；主要根據 Ion Otescu 1907）；Ion Otescu《Credințele țăranului român despre cer și stele》（1907，羅馬尼亞學院；英譯 SARM／Gheorghe & McBeath）；CRT 計畫網站 crt-ro.com（39 個傳統星座逐條說明）；Baia Mare 天文館「Poveștile Cerului」；民謠〈Miorița〉（Alecsandri 1850／1852 版）；跨文化：Stellarium belarusian、chinese、modern（Capella／Haedi）；天象 PyEphem 4.2.1 自算 |
 | 配音 | 逐字稿 **878 字**（中文字＋外文音節），平均 **4.16 字/秒**；最快一格 16 鏡 4.35、04／06／10／13／15 鏡 4.33（上限 4.5） |
 | 統一開頭 | 「同一片星空，羅馬尼亞的牧羊人看見——一座農場。」 |
-| 承接 | EP28（A-22）白俄羅斯：農民曆星空與 Elias 的馬車（2/19；結尾「下週五去羅馬尼亞：天上有牧羊人、看羊的大狗，還有一口井」）＋H-元宵（2/20；結尾「下週五，去羅馬尼亞找牧羊人」）→ **EP29 羅馬尼亞** → EP30（A-24）圖卡諾：亞馬遜的星空雨季曆（3/5） |
+| 承接 | EP28（A-22）白俄羅斯：農民曆星空與以利亞的馬車（2/19；結尾「下週五去羅馬尼亞：天上有牧羊人、看羊的大狗，還有一口井」）＋H-元宵（2/20；結尾「下週五，去羅馬尼亞找牧羊人」）→ **EP29 羅馬尼亞** → EP30（A-24）圖卡諾：亞馬遜的星空雨季曆（3/5） |
 
 > ⚠ **節目表的鉤子要改一處**：原寫「天上有羊圈、有牧人、還有一口井」。**羊圈不成立**：Stellarium romanian 的 39 個星座、Otescu 的星表與 CRT 網站都沒有羊圈（stână／strungă）星座。牧人✓（Ciobanul cu oile＝天琴，織女星是牧羊人；另有 Văcarul 放牛人＝牧夫），井✓（Puțul cu jgheab「井和飲水槽」＝飛馬大四邊形＋仙女座）。建議改成：「天上有牧羊人、看羊的大狗、山羊一家，還有一口給羊喝水的井」。
 > ⚠ **節目表時長要改**：150 秒 → 211 秒（20 鏡）。要剪 150 秒版：拿掉 02、05、10、13、17、18（共 55 秒）＝156 秒，再把 08 縮成「獵戶座疊了四個星座：小犁、大鑽子、鐮刀、三位聖人」（約 9 秒）＝148 秒。

diff --git a/04_腳本庫/X-05-南天的十字路口真十字假十字鑽石十字-逐字稿-v0.md b/04_腳本庫/X-05-南天的十字路口真十字假十字鑽石十字-逐字稿-v0.md
@@ -8,7 +8,7 @@
 | 來源 | Stellarium **modern**（星群 False Cross：δ Vel→ι Car、κ Vel→ε Car；Diamond Cross：β Car→θ Car、υ Car→ω Car）；**tongan**（Dan Smale；Toloatonga／Toloalahi）＋Collocott 1922（A-10）；**hawaiian_starlines**（A-09）；**anutan**（Feinberg 1988，A-11）；**mandar**、**bugis**（Doina Bucur 數位化；Rasyid, Hidayat & Orchiston 2021；Ammarell 1999；Pelras 1987）；**maori**（Dan Smale）；**tukano**；**chinese**（十字架、天社、海石、南船）；**kamilaroi**（Muraay，A-31）；Ptolemy《Almagest》星表（半人馬座）；天象與幾何全部 PyEphem 4.2.1／球面三角自算 |
 | 配音 | 逐字稿 **814 字**（中文字＋外文音節），平均 **4.07 字/秒**；最快一格 05 鏡 **4.33**、08 鏡 4.30（上限 4.5） |
 | 統一開頭 | 「同一片星空，找南方的人看見——三個十字。」 |
-| 承接 | EP39（A-31）卡米拉羅伊：由黑暗組成的鴯鶓（結尾「下週五，回到煤袋旁邊那個十字：南天其實有三個十字——真的、假的、鑽石的。認錯了，你找到的南方會偏掉二十度以上」）→ **EP40 南天的十字路口：真十字、假十字、鑽石十字** → EP41（X-06）星星導航總集：在羅盤上船以前（2027/05/21；⚠ 標題為本批建議的改法，見 X-06 v0） |
+| 承接 | EP39（A-31）卡米拉羅伊與尤瓦萊：由黑暗組成的鴯鶓（結尾「下週五，回到煤袋旁邊那個十字：南天其實有三個十字——真的、假的、鑽石的。認錯了，你找到的南方會偏掉二十度以上」）→ **EP40 南天的十字路口：真十字、假十字、鑽石十字** → EP41（X-06）星星導航總集：在羅盤上船以前（2027/05/21；⚠ 標題為本批建議的改法，見 X-06 v0） |
 
 > ⚠ **節目表需修改處**
 > 1. **鉤子要改**：原「水手認錯十字架會迷航」。找不到任何史料記載「因為把假十字當南十字而迷航」的實際案例（只有天文入門書常說「初學者容易認錯」）。改用可以算出來的說法：**「認錯十字，你找到的南方會偏掉二、三十度」**——照南十字「延長四倍半」的方法用在假十字上，在南緯 20° 左右、假十字上中天時，「南方」會落在方位 156°（偏東 24°）或 222°（偏西 42°），看你取哪一條對角線（自算，見星空對時）。

diff --git a/04_腳本庫/H-元宵-天官賜福與紫微大帝-逐字稿-v0.md b/04_腳本庫/H-元宵-天官賜福與紫微大帝-逐字稿-v0.md
@@ -8,7 +8,7 @@
 | 來源 | 天文：Stellarium **chinese**（紫微右垣 CON 032、紫微左垣 CON 033、北極 CON 041、勾陳 CON 083、北斗 CON 039）；《史記・天官書》（中宮「紫宮」、「斗為帝車」）；《晉書・天文志》（「紫宮垣十五星……一曰紫微，大帝之坐也」）。信仰：三官大帝（上元天官、中元地官、下元水官）的封號與三元日；《三國志・張魯傳》裴注引《典略》「三官手書」。天象：PyEphem 4.2.1 自算 |
 | 配音 | 逐字稿 **179 字**（中文字；本集沒有外文），平均 **3.98 字/秒**；最快一格 04 鏡 4.38、02 鏡 4.25（上限 4.5） |
 | 統一開頭 | 「同一片星空，元宵這一晚——人們拜天官。」 |
-| 承接 | EP28（A-22）白俄羅斯：農民曆星空與 Elias 的馬車（2/19，前一天；結尾「明天元宵，我們就去看這座紫微垣，和元宵拜的天官」）→ **H-元宵（2/20）** → EP29（A-23）羅馬尼亞：牧羊人的星空農場（2/26）；導流 A-02《三垣：天上的紫禁城》 |
+| 承接 | EP28（A-22）白俄羅斯：農民曆星空與以利亞的馬車（2/19，前一天；結尾「明天元宵，我們就去看這座紫微垣，和元宵拜的天官」）→ **H-元宵（2/20）** → EP29（A-23）羅馬尼亞：牧羊人的星空農場（2/26）；導流 A-02《三垣：天上的紫禁城》 |
 
 > ⚠ **節目表的鉤子要改**：原寫「元宵拜的天官，住在星盤正中央」。這句把**信仰**和**天文**接成一件事：天官（三官大帝之一）是道教與民間信仰的神；紫微垣是古代天文學替北極附近星星分的區。兩者的關係只是**名字**——天官的封號常寫作「上元一品賜福天官紫微大帝」，「紫微」跟星區同名（誰借誰、從什麼時候開始，還沒查到可靠的研究）。說「天官住在星盤正中央」等於替信仰下天文結論，不用。建議改成：「元宵拜的天官又叫紫微大帝——紫微，是星盤正中央那座天上宮城的名字」。
 > ⚠ **「天官」有兩個意思，別混**：司馬遷《史記・天官書》的「天官」是「天上的星官」（司馬貞《索隱》：「官者，星官也」，待核），跟元宵拜的天官大帝無關。片中不提《天官書》的書名，只引其中「斗為帝車」一句；首留言說明。
